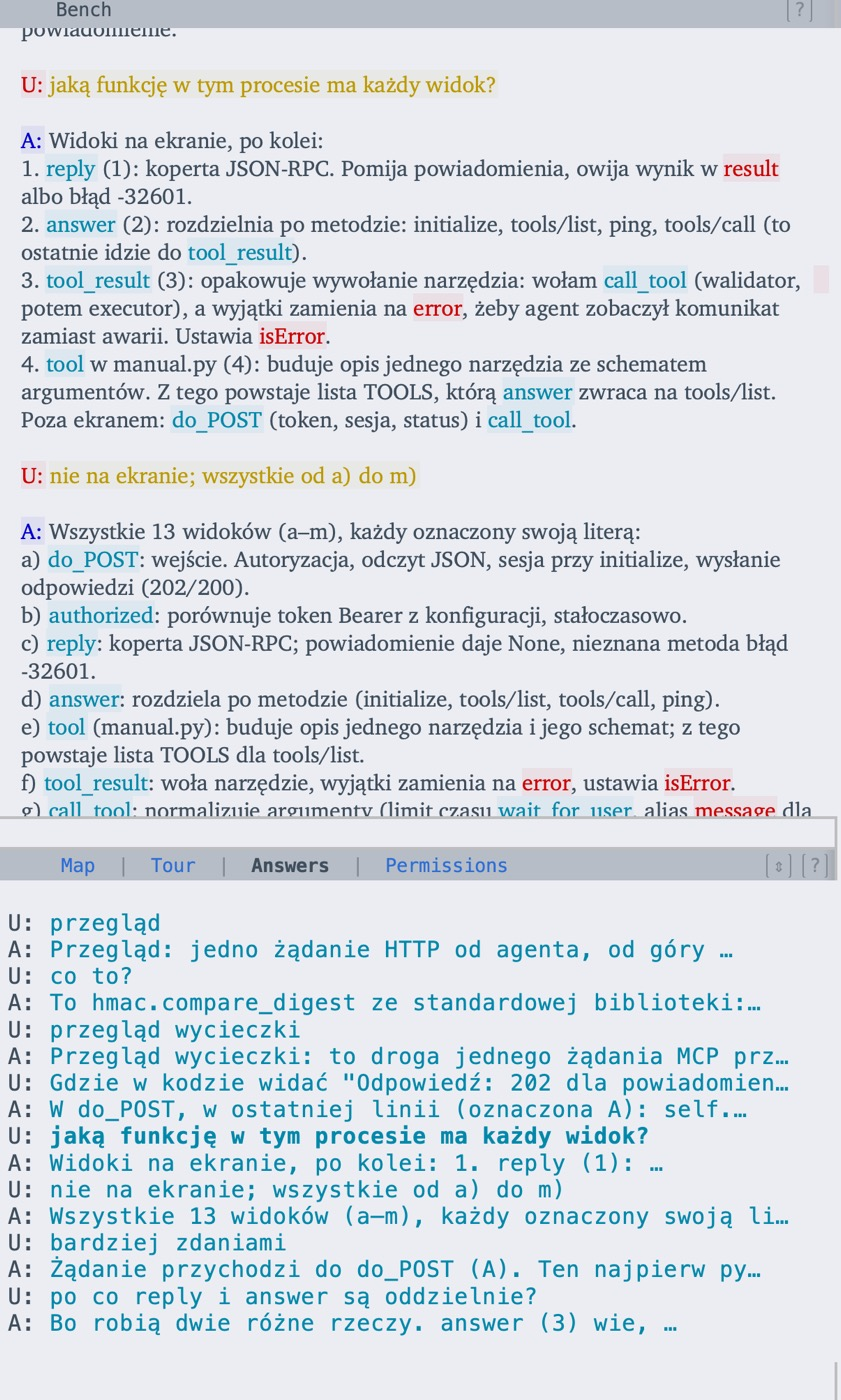
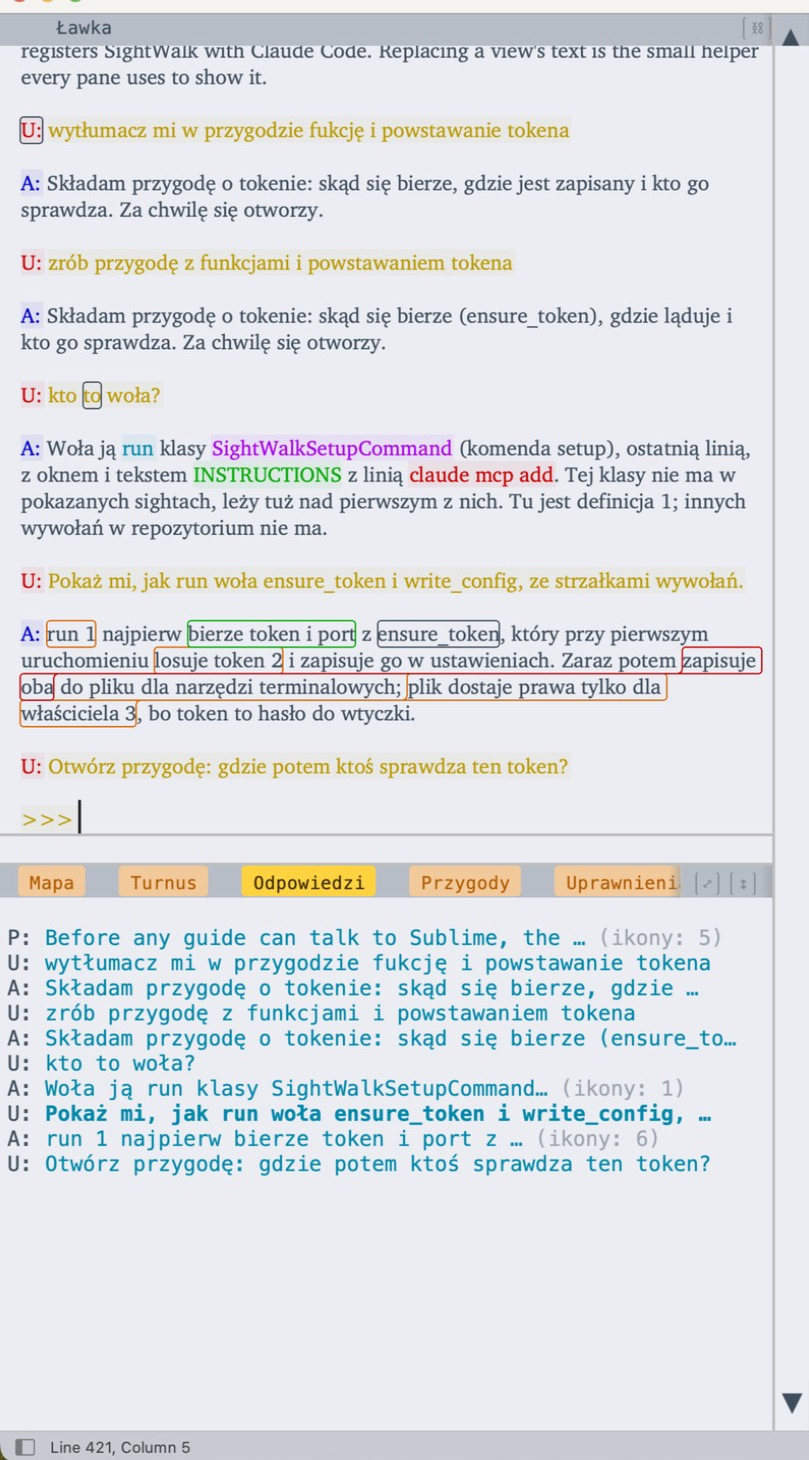
README: a new screenshot of the Answers tab

diff --git a/README.md b/README.md
@@ -162,7 +162,7 @@ bench and names the field. The reasoning behind the sets is in
 
 ### Answers
 
-<img src="docs/images/answers.jpg" alt="The Answers tab: every question and answer of the conversation by its first words; a click brought one question back to the top of the bench" width="420">
+<img src="docs/images/answers.jpg" alt="The Answers tab under the bench: every story, question and answer of the conversation by its first words, the answers with their icons counted; the question clicked in bold" width="420">
 
 The Answers tab lists every question and answer on the bench by its first words. A click brings
 one to the top of the bench with its marks (a question: what you had selected when you sent

diff --git a/README.pl.md b/README.pl.md
@@ -165,7 +165,7 @@ i nazywa pole. Uzasadnienie zestawów jest w
 
 ### Odpowiedzi
 
-<img src="docs/images/answers.jpg" alt="Zakładka Odpowiedzi: każde pytanie i odpowiedź rozmowy po pierwszych słowach; kliknięcie przeniosło jedno pytanie na górę ławki" width="420">
+<img src="docs/images/answers.jpg" alt="Zakładka Odpowiedzi pod ławką: każda opowieść, pytanie i odpowiedź rozmowy po pierwszych słowach, odpowiedzi z liczbą ikon; kliknięte pytanie pogrubione" width="420">
 
 Zakładka Odpowiedzi wylicza wszystkie pytania i odpowiedzi z ławki po pierwszych słowach.
 Kliknięcie przenosi jedno z nich na górę ławki razem ze znacznikami (przy pytaniu: z tym, co było
